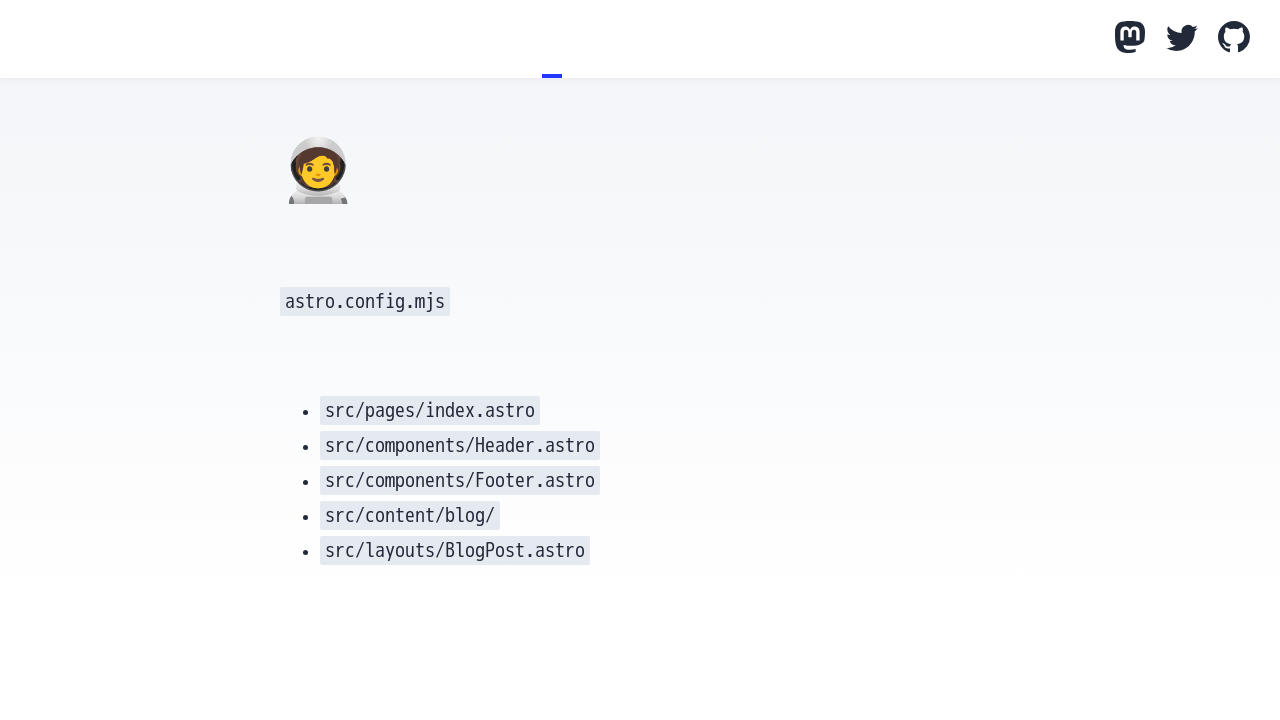
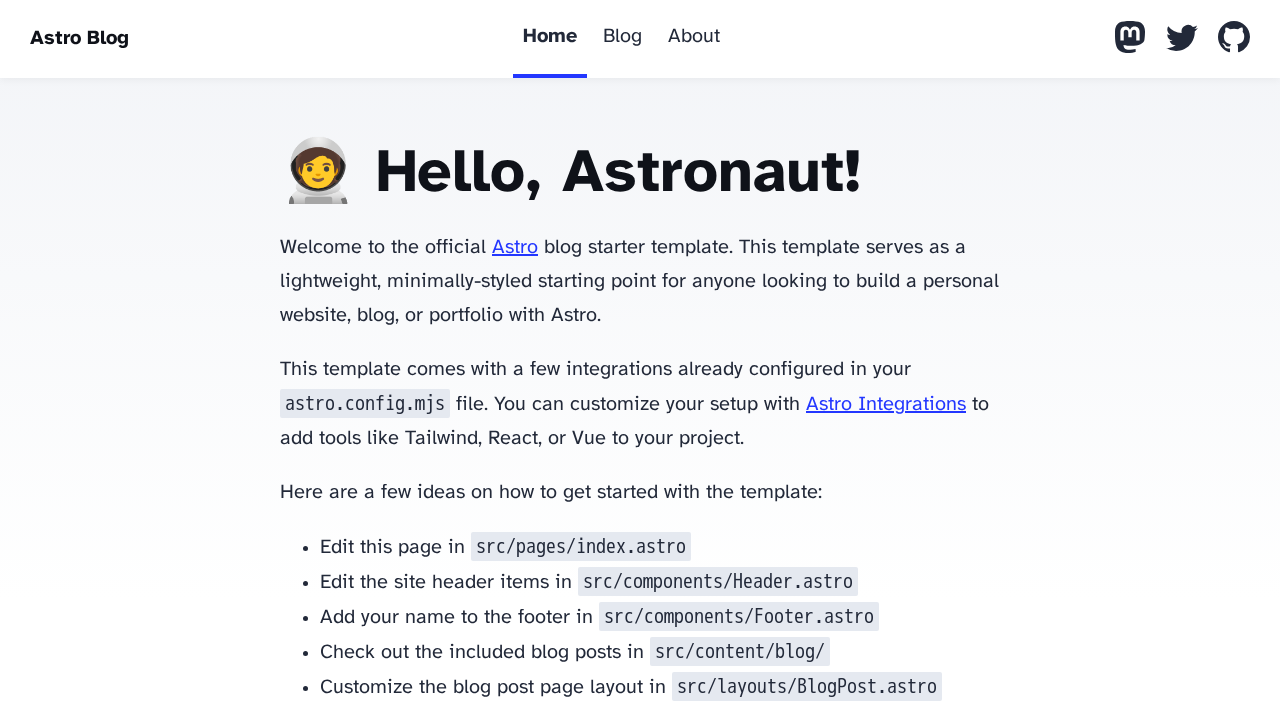
Finalize PR

diff --git a/app/config/site-templates.php b/app/config/site-templates.php
@@ -121,7 +121,8 @@ return [
         'key' => 'template-for-onelink',
         'name' => 'Onelink template',
         'useCases' => ['starter'],
-        'demoImage' => $url . '/console/images/sites/templates/template-for-onelink.png',
+        'screenshotDark' => $url . '/images/sites/templates/template-for-onelink-dark.png',
+        'screenshotLight' => $url . '/images/sites/templates/template-for-onelink-light.png',
         'frameworks' => [
             getFramework('NUXT', [
                 'providerRootDirectory' => './onelink',
@@ -140,7 +141,8 @@ return [
         'key' => 'starter-for-svelte',
         'name' => 'Svelte starter',
         'useCases' => ['starter'],
-        'demoImage' => $url . '/console/images/sites/templates/starter-for-svelte.png',
+        'screenshotDark' => $url . '/images/sites/templates/starter-for-svelte-dark.png',
+        'screenshotLight' => $url . '/images/sites/templates/starter-for-svelte-light.png',
         'frameworks' => [
             getFramework('SVELTEKIT', [
                 'providerRootDirectory' => './',
@@ -181,7 +183,8 @@ return [
         'key' => 'starter-for-react',
         'name' => 'React starter',
         'useCases' => ['starter'],
-        'demoImage' => $url . '/console/images/sites/templates/starter-for-react.png',
+        'screenshotDark' => $url . '/images/sites/templates/starter-for-react-dark.png',
+        'screenshotLight' => $url . '/images/sites/templates/starter-for-react-light.png',
         'frameworks' => [
             getFramework('REACT', [
                 'providerRootDirectory' => './',
@@ -222,7 +225,8 @@ return [
         'key' => 'starter-for-vue',
         'name' => 'Vue starter',
         'useCases' => ['starter'],
-        'demoImage' => $url . '/console/images/sites/templates/starter-for-vue.png',
+        'screenshotDark' => $url . '/images/sites/templates/starter-for-vue-dark.png',
+        'screenshotLight' => $url . '/images/sites/templates/starter-for-vue-light.png',
         'frameworks' => [
             getFramework('VUE', [
                 'providerRootDirectory' => './',
@@ -263,7 +267,8 @@ return [
         'key' => 'starter-for-react-native',
         'name' => 'React Native starter',
         'useCases' => ['starter'],
-        'demoImage' => $url . '/console/images/sites/templates/starter-for-react-native.png',
+        'screenshotDark' => $url . '/images/sites/templates/starter-for-react-native-dark.png',
+        'screenshotLight' => $url . '/images/sites/templates/starter-for-react-native-light.png',
         'frameworks' => [
             getFramework('REACT', [
                 'providerRootDirectory' => './',
@@ -305,7 +310,8 @@ return [
         'key' => 'starter-for-nextjs',
         'name' => 'Next.js starter',
         'useCases' => ['starter'],
-        'demoImage' => $url . '/console/images/sites/templates/starter-for-nextjs.png',
+        'screenshotDark' => $url . '/images/sites/templates/starter-for-nextjs-dark.png',
+        'screenshotLight' => $url . '/images/sites/templates/starter-for-nextjs-light.png',
         'frameworks' => [
             getFramework('NEXTJS', [
                 'providerRootDirectory' => './',
@@ -346,7 +352,8 @@ return [
         'key' => 'starter-for-nuxt',
         'name' => 'Nuxt starter',
         'useCases' => ['starter'],
-        'demoImage' => $url . '/console/images/sites/templates/starter-for-nuxt.png',
+        'screenshotDark' => $url . '/images/sites/templates/starter-for-nuxt-dark.png',
+        'screenshotLight' => $url . '/images/sites/templates/starter-for-nuxt-light.png',
         'frameworks' => [
             getFramework('NUXT', [
                 'providerRootDirectory' => './',
@@ -387,7 +394,8 @@ return [
         'key' => 'template-for-event',
         'name' => 'Event template',
         'useCases' => ['starter'],
-        'demoImage' => $url . '/console/images/sites/templates/template-for-event.png',
+        'screenshotDark' => $url . '/images/sites/templates/template-for-event-dark.png',
+        'screenshotLight' => $url . '/images/sites/templates/template-for-event-light.png',
         'frameworks' => [
             getFramework('NEXTJS', [
                 'providerRootDirectory' => './',
@@ -422,7 +430,8 @@ return [
         'key' => 'template-for-portfolio',
         'name' => 'Portfolio template',
         'useCases' => ['starter'],
-        'demoImage' => $url . '/console/images/sites/templates/template-for-portfolio.png',
+        'screenshotDark' => $url . '/images/sites/templates/template-for-portfolio-dark.png',
+        'screenshotLight' => $url . '/images/sites/templates/template-for-portfolio-light.png',
         'frameworks' => [
             getFramework('NEXTJS', [
                 'providerRootDirectory' => './',
@@ -438,7 +447,8 @@ return [
         'key' => 'template-for-store',
         'name' => 'Store template',
         'useCases' => ['starter'],
-        'demoImage' => $url . '/console/images/sites/templates/template-for-store.png',
+        'screenshotDark' => $url . '/images/sites/templates/template-for-store-dark.png',
+        'screenshotLight' => $url . '/images/sites/templates/template-for-store-light.png',
         'frameworks' => [
             getFramework('SVELTEKIT', [
                 'providerRootDirectory' => './',
@@ -479,7 +489,8 @@ return [
         'key' => 'template-for-blog',
         'name' => 'Blog template',
         'useCases' => ['starter'],
-        'demoImage' => $url . '/console/images/sites/templates/template-for-blog.png',
+        'screenshotDark' => $url . '/images/sites/templates/template-for-blog-dark.png',
+        'screenshotLight' => $url . '/images/sites/templates/template-for-blog-light.png',
         'frameworks' => [
             getFramework('SVELTEKIT', [
                 'providerRootDirectory' => './',
@@ -495,6 +506,8 @@ return [
         'key' => 'astro-starter',
         'name' => 'Astro starter',
         'useCases' => ['starter'],
+        'screenshotDark' => $url . '/images/sites/templates/astro-starter-dark.png',
+        'screenshotLight' => $url . '/images/sites/templates/astro-starter-light.png',
         'demoImage' => '',
         'frameworks' => [
             getFramework('ASTRO', [
@@ -511,6 +524,8 @@ return [
         'key' => 'remix-starter',
         'name' => 'Remix starter',
         'useCases' => ['starter'],
+        'screenshotDark' => $url . '/images/sites/templates/remix-starter-dark.png',
+        'screenshotLight' => $url . '/images/sites/templates/remix-starter-light.png',
         'demoImage' => '',
         'frameworks' => [
             getFramework('REMIX', [
@@ -527,6 +542,8 @@ return [
         'key' => 'flutter-starter',
         'name' => 'Flutter starter',
         'useCases' => ['starter'],
+        'screenshotDark' => $url . '/images/sites/templates/flutter-starter-dark.png',
+        'screenshotLight' => $url . '/images/sites/templates/flutter-starter-light.png',
         'demoImage' => '',
         'frameworks' => [
             getFramework('FLUTTER', [
@@ -543,6 +560,8 @@ return [
         'key' => 'nextjs-starter',
         'name' => 'Next.js starter website',
         'useCases' => ['starter'],
+        'screenshotDark' => $url . '/images/sites/templates/nextjs-starter-dark.png',
+        'screenshotLight' => $url . '/images/sites/templates/nextjs-starter-light.png',
         'frameworks' => [
             getFramework('NEXTJS', [
                 'providerRootDirectory' => './nextjs/starter',
@@ -558,6 +577,8 @@ return [
         'key' => 'nuxt-starter',
         'name' => 'Nuxt starter website',
         'useCases' => ['starter'],
+        'screenshotDark' => $url . '/images/sites/templates/nuxt-starter-dark.png',
+        'screenshotLight' => $url . '/images/sites/templates/nuxt-starter-light.png',
         'frameworks' => [
             getFramework('NUXT', [
                 'providerRootDirectory' => './nuxt/starter',
@@ -573,6 +594,8 @@ return [
         'key' => 'sveltekit-starter',
         'name' => 'SvelteKit starter website',
         'useCases' => ['starter'],
+        'screenshotDark' => $url . '/images/sites/templates/sveltekit-starter-dark.png',
+        'screenshotLight' => $url . '/images/sites/templates/sveltekit-starter-light.png',
         'frameworks' => [
             getFramework('SVELTEKIT', [
                 'providerRootDirectory' => './sveltekit/starter',

diff --git a/src/Appwrite/Utopia/Response/Model/TemplateSite.php b/src/Appwrite/Utopia/Response/Model/TemplateSite.php
@@ -28,11 +28,17 @@ class TemplateSite extends Model
                 'default' => '',
                 'example' => 'https://nextjs-starter.appwrite.network/',
             ])
-            ->addRule('demoImage', [
+            ->addRule('screenshotDark', [
                 'type' => self::TYPE_STRING,
-                'description' => 'File URL with preview screenshot.',
+                'description' => 'File URL with preview screenshot in dark theme preference.',
                 'default' => '',
-                'example' => 'https://cloud.appwrite.io/console/images/sites/templates/nextjs-starter.png',
+                'example' => 'https://cloud.appwrite.io/images/sites/templates/template-for-blog-dark.png',
+            ])
+            ->addRule('screenshotLight', [
+                'type' => self::TYPE_STRING,
+                'description' => 'File URL with preview screenshot in light theme preference.',
+                'default' => '',
+                'example' => 'https://cloud.appwrite.io/images/sites/templates/template-for-blog-light.png',
             ])
             ->addRule('useCases', [
                 'type' => self::TYPE_STRING,

diff --git a/app/http.php b/app/http.php
@@ -29,6 +29,8 @@ use Utopia\Pools\Group;
 use Utopia\Swoole\Files;
 use Utopia\System\System;
 
+Files::load(__DIR__.'/../public');
+
 const DOMAIN_SYNC_TIMER = 30; // 30 seconds
 
 $domains = new Table(1_000_000); // 1 million rows
